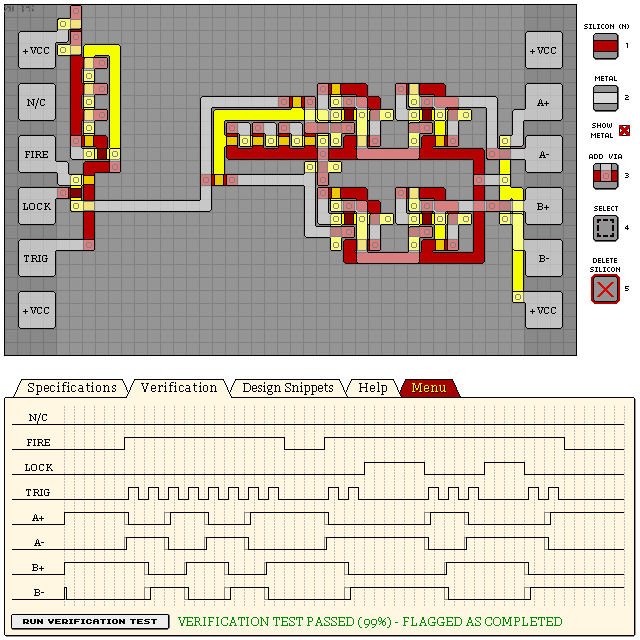
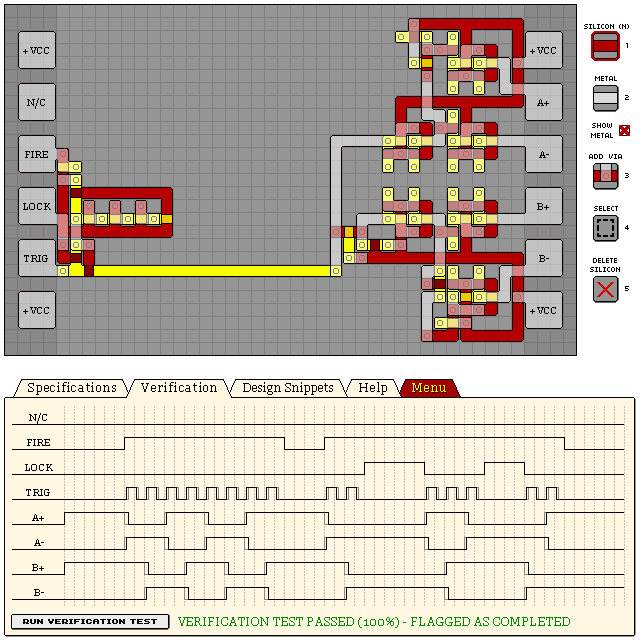
100% - 19 X903 GATLING CANNON FIRE CONTROLLER

diff --git a/levels/19 X903 GATLING CANNON FIRE CONTROLLER.md b/levels/19 X903 GATLING CANNON FIRE CONTROLLER.md
@@ -1,28 +1,33 @@
 # X903 - GATLING CANNON FIRE CONTROLLER
 
-- Verification: Passed (99%)
-- Design Score: 410
+- Verification: Passed (100)
+- Design Score: 391
 
 ```
[17 lines of base64/hex data omitted]
-3qvTFEne/gOimsrf
[15 lines of base64/hex data omitted]
+/zyZNcRfrRcc+RWKCo9kRHq2IunXL95Aye0=
 ```
 
 ![19 X903 GATLING CANNON FIRE CONTROLLER](./assets/19.png)
 
+## See Also
+
+[05 KO223 DUAL FIXED FREQUENCY OSCILLATOR](/levels/05%20KO223%20DUAL%20FIXED%20FREQUENCY%20OSCILLATOR.md)
+
+[11 KC82F DIVIDE-BY-FOUR COUNTER](/levels/11%20KC82F%20DIVIDE-BY-FOUR%20COUNTER.md)
+
+[T Latch](/snippets/t-latch.md)
